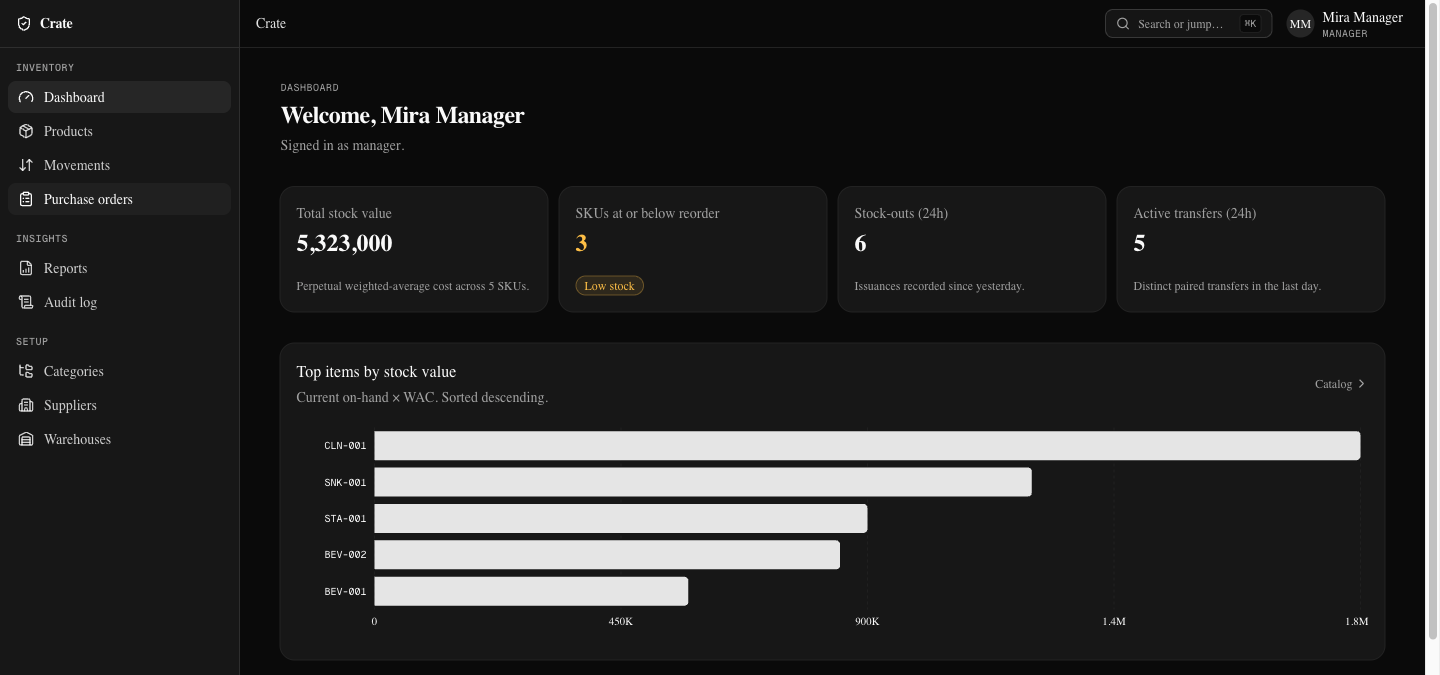
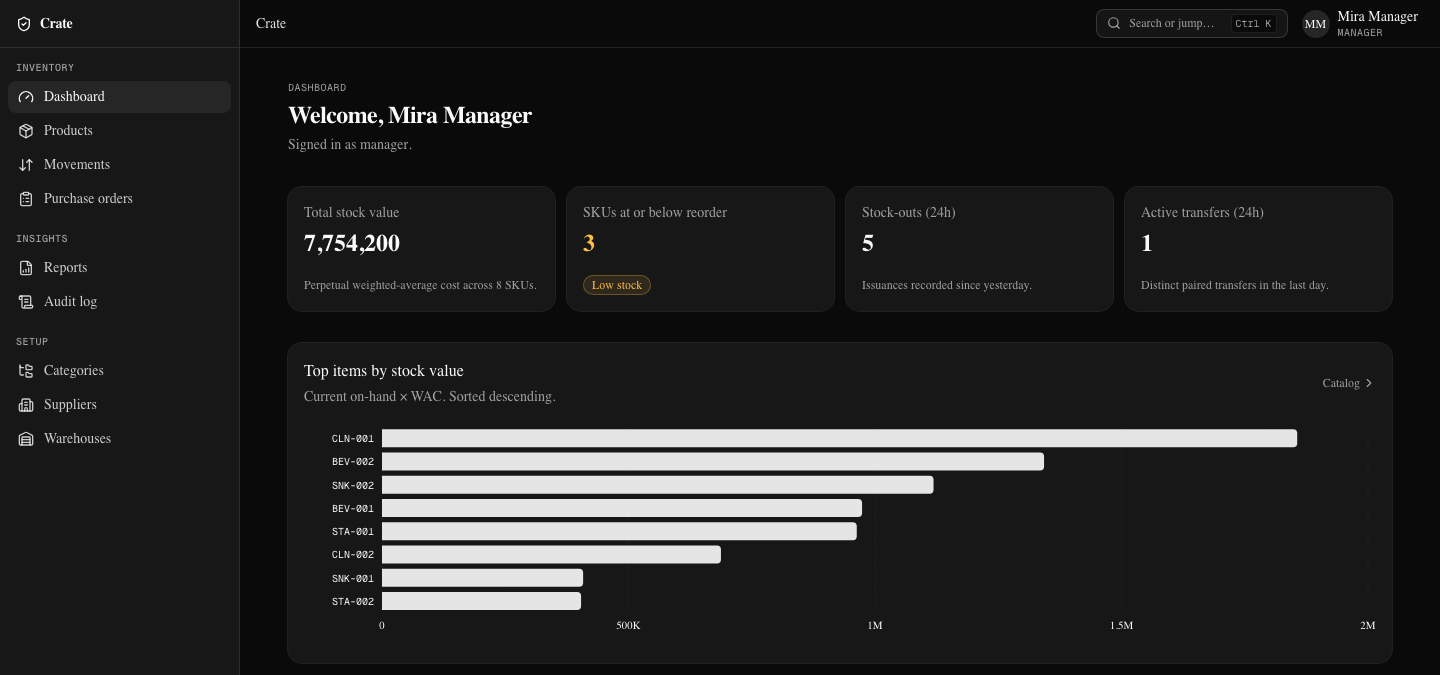
docs(readme): retake screenshots against the revived demo
The four images were captured from a database left behind by a Playwright
run, and the e2e suite always targets the first product, so ten consecutive
ledger rows read Mineral Water 600ml. The orders shot was worse: four POs,
one supplier, 15,000 on every line, and only two of the five states the
README claims the machine has.

Retaken from app.crate.ersaptaaristo.dev against the seeded data. The caption
no longer promises E2E-* references, because a fresh seed does not leave any.

diff --git a/README.md b/README.md
@@ -32,9 +32,12 @@ Purchase orders — draft → sent → partial → received state machine:
 
 ![Purchase orders](./.github/screenshots/orders.png)
 
-> Captured from the running app against the seeded dev database (manager role).
-> The monospace `E2E-*` references in the ledger are real rows left by the
-> end-to-end suite — the ledger is append-only, so nothing is deleted for show.
+> Captured from the live demo above, signed in as the manager role, against the
+> seeded database: 8 SKUs, 12 purchase orders across all five states, and 55
+> movements spread over 15 days. The figures are consistent rather than
+> decorative. Every balance is the sum of the ledger, no product ever goes
+> negative at any point in the sequence, and the three SKUs flagged at or below
+> reorder are flagged because their own sales put them there.
 
 ## What's inside
 
